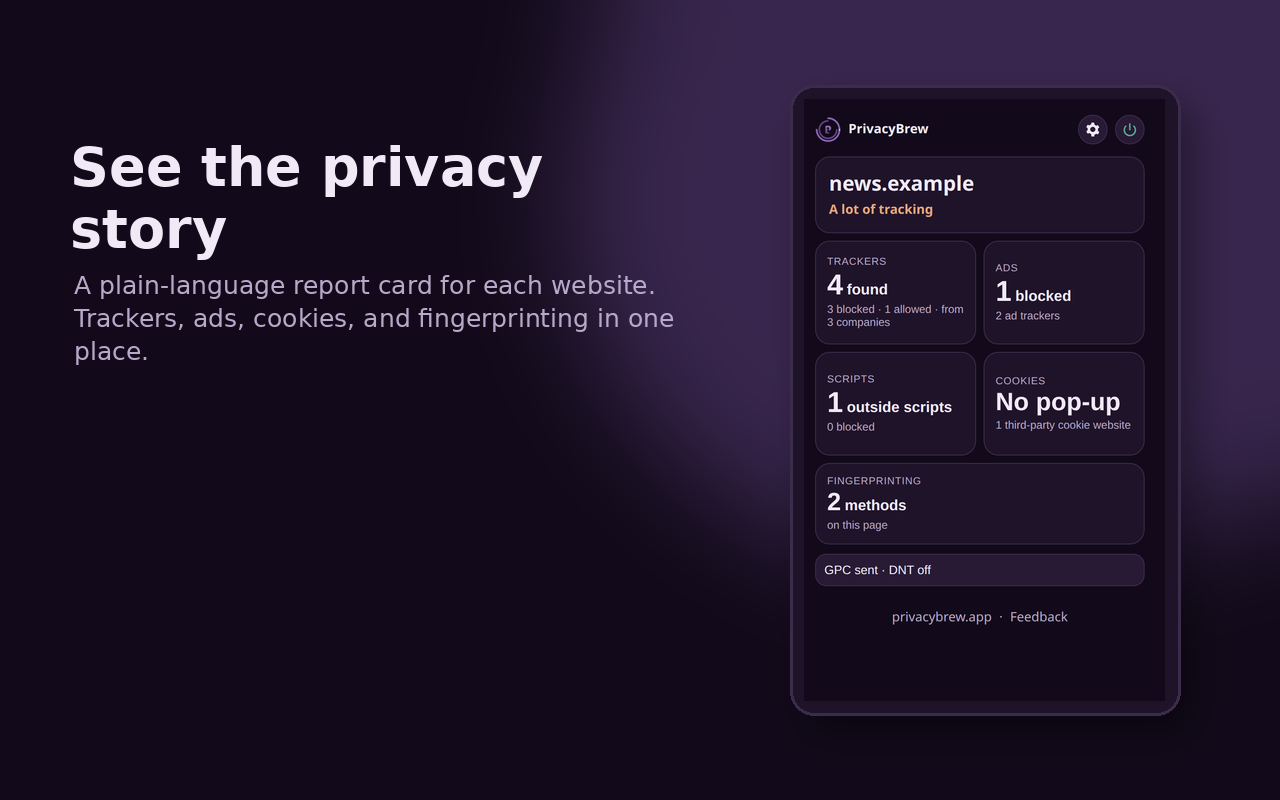
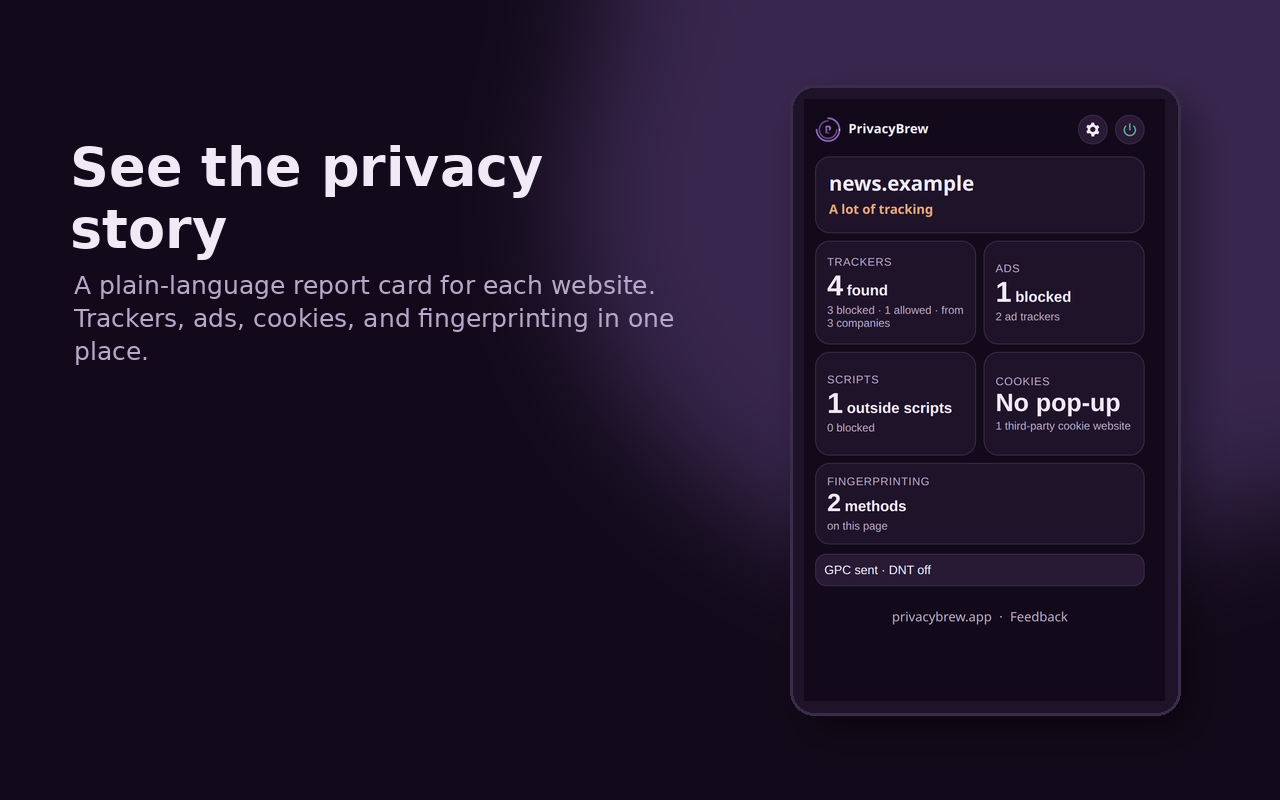
Popup: full list credits; Blocked green, Allowed orange; slightly larger small labels

diff --git a/extension/popup.css b/extension/popup.css
@@ -58,7 +58,7 @@ html, body {
 .card-grid { display: grid; grid-template-columns: 1fr 1fr; gap: 8px; }
 .home-card { min-height: 112px; text-align: left; color: var(--text); cursor: pointer; }
 .home-card.wide { grid-column: 1 / -1; min-height: 88px; }
-.group-label { display: block; color: var(--text-dim); font-size: 11px; letter-spacing: .05em; text-transform: uppercase; margin-bottom: 3px; }
+.group-label { display: block; color: var(--text-dim); font-size: 12px; letter-spacing: .05em; text-transform: uppercase; margin-bottom: 3px; }
 .big-number { font-size: 31px; line-height: 1; font-weight: 850; color: var(--text); }
 .big-word { font-size: 16px; font-weight: 750; margin-left: 4px; }
 .home-card .subline { display: block; margin-top: 4px; color: var(--text-dim); font-size: 12px; }
@@ -73,8 +73,8 @@ h2 { margin: 10px 0 12px; font-size: 20px; }
 h3 { margin: 14px 0 8px; color: var(--text-dim); font-size: 13px; }
 .chip { display: inline-block; border: 1px solid var(--border); border-radius: 999px; padding: 2px 7px; color: var(--text-dim); font-size: 12px; margin-left: 4px; }
 .muted, .setting-row p { color: var(--text-dim); }
-.blocked { color: var(--warning); font-weight: 800; }
-.allowed { color: var(--accent-2); font-weight: 800; }
+.blocked { color: var(--accent-2); font-weight: 800; }
+.allowed { color: var(--warning); font-weight: 800; }
 .setting-row { display: flex; justify-content: space-between; align-items: center; margin: 8px 0; }
 .setting-row.stacked { align-items: flex-start; }
 .setting-row p { font-size: 12px; margin: 4px 0 0; }
@@ -129,7 +129,7 @@ label { display: block; margin: 14px 0; }
 }
 .app.compact-home .group-label,
 .app.compact-home .subline {
-  font-size: 10.5px;
+  font-size: 11px;
 }
 .app.compact-home .privacy-row {
   display: block;

diff --git a/extension/popup.html b/extension/popup.html
@@ -53,7 +53,7 @@
       <div class="setting-row stacked"><div><span>Do not sell or share my data (GPC)</span><p>Some US states require websites to obey this.</p></div><button id="gpcToggle" type="button" aria-pressed="true">On</button></div>
       <div class="setting-row stacked"><div><span>Do not track (DNT)</span><p>Most websites ignore this. It can make your browser easier to identify.</p></div><button id="dntToggle" type="button" aria-pressed="false">Off</button></div>
       <h3>Websites where PrivacyBrew is off</h3><ul id="pausedList" class="paused-list"></ul>
-      <div class="limits"><p>PrivacyBrew blocks known trackers and ads.</p><p>It cannot block all video ads.</p><p>PrivacyBrew answers cookie pop-ups for you. It never accepts all cookies.</p><p><a href="https://disconnect.me/trackerprotection" target="_blank" rel="noreferrer">Tracker list: Disconnect</a></p></div>
+      <div class="limits"><p>PrivacyBrew blocks known trackers and ads.</p><p>It cannot block all video ads.</p><p>PrivacyBrew answers cookie pop-ups for you. It never accepts all cookies.</p><p>Lists: <a href="https://disconnect.me/trackerprotection" target="_blank" rel="noreferrer">Disconnect tracker list</a> (CC BY-NC-SA 4.0), <a href="https://easylist.to/" target="_blank" rel="noreferrer">EasyList</a>. Cookie pop-up rules: <a href="https://github.com/duckduckgo/autoconsent" target="_blank" rel="noreferrer">DuckDuckGo autoconsent</a> (MPL-2.0).</p></div>
     </section>
 
     <section id="feedbackView" class="view" hidden>
